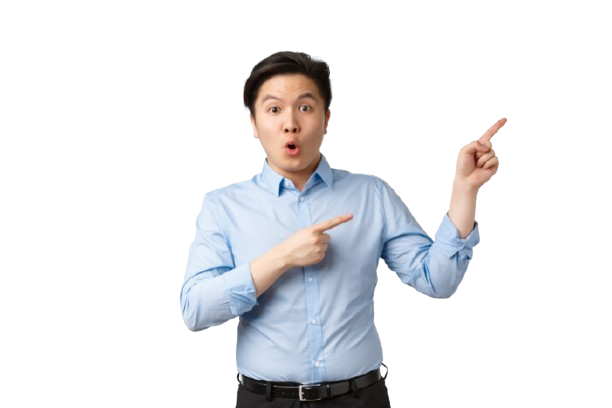
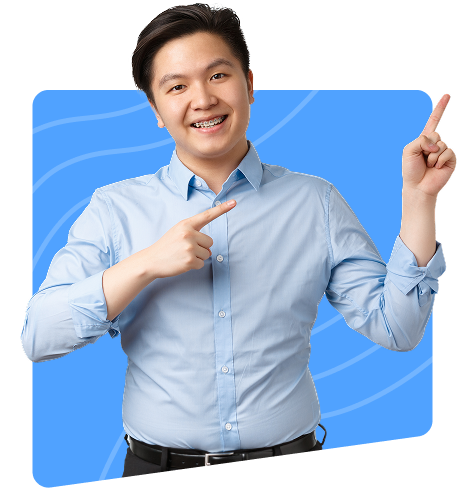
Change image & adjustment padding container at Landing Page

diff --git a/resources/js/Pages/LandingPage.tsx b/resources/js/Pages/LandingPage.tsx
@@ -41,9 +41,9 @@ export default function LandingPage({
             <NavbarComponent />
 
             <header className="relative min-h-[800px] overflow-hidden bg-gradient-to-tr from-white to-yellow-50 pt-20 md:pt-16">
-                <div className="container relative z-10 mx-auto flex flex-col items-center justify-between px-4 py-10 text-center md:px-20 lg:flex-row lg:text-left">
-                    <div className="flex flex-col gap-10 lg:w-1/2">
-                        <h1 className="font-spartan text-[40px] font-medium leading-tight md:text-[48px] lg:text-[64px]">
+                <div className="container relative z-10 mx-auto flex flex-col items-center justify-between px-4 py-10 text-center md:px-10 lg:px-14 lg:text-left xl:flex-row xl:px-0">
+                    <div className="order-2 flex w-3/4 flex-col gap-10 text-center xl:order-1 xl:w-1/2 xl:text-left">
+                        <h1 className="font-spartan text-[40px] font-medium leading-tight md:text-5xl xl:text-6xl">
                             Tingkatkan Skill Coding dari Nol hingga Mahir!
                         </h1>
 
@@ -54,7 +54,7 @@ export default function LandingPage({
                             secara efektif."
                         />
 
-                        <div className="flex justify-center lg:justify-start">
+                        <div className="flex justify-center xl:justify-start">
                             <Link href="/courses">
                                 <NewPrimaryButton
                                     text="Mulai Belajar Sekarang"
@@ -64,16 +64,16 @@ export default function LandingPage({
                             </Link>
                         </div>
                     </div>
-                    <div className="relative order-1 mt-10 hidden justify-center lg:order-2 lg:mt-0 lg:flex lg:w-1/2">
-                        <div className="absolute right-[12%] top-4 h-[380px] w-[340px] rotate-[25deg] rounded-3xl bg-primary blur-[1px] md:h-[460px] md:w-[420px] lg:right-[20%] lg:top-0 lg:h-[380px] lg:w-[290px] xl:right-[16%] xl:top-4 xl:h-[460px] xl:w-[420px]" />
-                        <div className="absolute right-[5%] top-0 h-[400px] w-[360px] rounded-3xl bg-[#51a2ff] md:h-[467px] md:w-[440px] lg:right-[14%] lg:top-0 lg:h-[400px] lg:w-[310px] xl:right-[10%] xl:top-0 xl:h-[467px] xl:w-[440px]" />
+                    <div className="relative order-1 mt-10 hidden w-[70%] justify-center lg:mt-0 lg:flex xl:order-2 xl:w-1/2">
+                        {/* <div className="absolute right-[12%] top-4 h-[380px] w-[340px] rotate-[25deg] rounded-3xl bg-primary blur-[1px] md:h-[460px] md:w-[420px] lg:right-[20%] lg:top-0 lg:h-[380px] lg:w-[290px] xl:right-[16%] xl:top-4 xl:h-[460px] xl:w-[420px]" />
+                        <div className="absolute right-[5%] top-0 h-[400px] w-[360px] rounded-3xl bg-[#51a2ff] md:h-[467px] md:w-[440px] lg:right-[14%] lg:top-0 lg:h-[400px] lg:w-[310px] xl:right-[10%] xl:top-0 xl:h-[467px] xl:w-[440px]" /> */}
                         <img
-                            src="/images/header1.png"
+                            src="/images/header.png"
                             alt="Belajar coding"
-                            className="relative z-10 w-[80%] max-w-[400px] object-cover md:w-[70%] md:object-contain lg:h-[400px] lg:w-[60%] lg:max-w-[300px] lg:object-cover xl:h-auto xl:w-[85%] xl:max-w-[400px] xl:object-contain"
+                            className="relative z-10 object-cover md:w-[70%] md:object-contain lg:object-cover xl:h-auto xl:w-[85%] xl:max-w-[600px] xl:object-contain"
                             loading="lazy"
                         />
-                        <div className="absolute left-[10%] top-10 z-20 flex translate-x-6 items-center gap-2 rounded-xl bg-white px-3 py-1.5 shadow-lg md:left-[12%] md:translate-x-8 lg:left-[8%] lg:top-8 lg:translate-x-6 lg:gap-1 lg:px-2 lg:py-1 xl:left-[14%] xl:top-10 xl:translate-x-10 xl:gap-2 xl:px-3 xl:py-1.5">
+                        <div className="absolute left-[10%] top-10 z-20 flex translate-x-6 items-center gap-2 rounded-xl bg-white px-3 py-1.5 shadow-lg md:left-[12%] md:translate-x-8 lg:left-[10%] lg:top-8 lg:translate-x-6 lg:gap-1 lg:px-2 lg:py-1 xl:left-[4%] xl:top-36 xl:translate-x-10 xl:gap-2 xl:px-3 xl:py-1.5 2xl:left-[14%]">
                             <div className="flex h-5 w-5 items-center justify-center rounded-md bg-yellow-400 text-white lg:h-4 lg:w-4 xl:h-5 xl:w-5">
                                 <IconSend3 className="h-3 w-3 lg:h-2 lg:w-2 xl:h-3 xl:w-3" />
                             </div>
@@ -81,7 +81,7 @@ export default function LandingPage({
                                 Effective Learning
                             </span>
                         </div>
-                        <div className="absolute bottom-20 left-[8%] z-20 flex translate-x-8 items-center gap-2 rounded-xl bg-white px-3 py-1.5 shadow-lg md:left-[10%] md:translate-x-10 lg:bottom-20 lg:left-[5%] lg:translate-x-6 lg:gap-1 lg:px-2 lg:py-1 xl:bottom-20 xl:left-[12%] xl:translate-x-12 xl:gap-2 xl:px-3 xl:py-1.5">
+                        <div className="absolute bottom-20 left-[8%] z-20 flex translate-x-8 items-center gap-2 rounded-xl bg-white px-3 py-1.5 shadow-lg md:left-[10%] md:translate-x-10 lg:bottom-20 lg:left-[5%] lg:translate-x-6 lg:gap-1 lg:px-2 lg:py-1 xl:bottom-28 xl:left-[12%] xl:translate-x-12 xl:gap-2 xl:px-3 xl:py-1.5">
                             <div className="flex h-5 w-5 items-center justify-center rounded-md bg-purple-600 text-white lg:h-4 lg:w-4 xl:h-5 xl:w-5">
                                 <IconSend3 className="h-3 w-3 lg:h-2 lg:w-2 xl:h-3 xl:w-3" />
                             </div>
@@ -89,7 +89,7 @@ export default function LandingPage({
                                 Upgrade Skill
                             </span>
                         </div>
-                        <div className="absolute bottom-8 right-6 z-20 flex items-center gap-2 rounded-xl bg-white px-3 py-1.5 shadow-lg md:right-8 lg:bottom-8 lg:right-6 lg:gap-1 lg:px-2 lg:py-1 xl:bottom-8 xl:right-10 xl:gap-2 xl:px-3 xl:py-1.5">
+                        <div className="absolute bottom-12 right-6 z-20 flex items-center gap-2 rounded-xl bg-white px-3 py-1.5 shadow-lg md:right-8 lg:bottom-8 lg:right-6 lg:gap-1 lg:px-2 lg:py-1 xl:bottom-24 xl:right-10 xl:gap-2 xl:px-3 xl:py-1.5">
                             <div className="flex h-5 w-5 items-center justify-center rounded-md bg-primary text-white lg:h-4 lg:w-4 xl:h-5 xl:w-5">
                                 <IconBookOpen className="h-3 w-3 lg:h-2 lg:w-2 xl:h-3 xl:w-3" />
                             </div>
@@ -103,45 +103,55 @@ export default function LandingPage({
 
             {/* Section belajar coding */}
             <section className="py-10">
-                <div className="container mx-auto flex flex-col items-center gap-12 px-4 py-4 md:flex-row md:items-center md:px-10 xl:px-20">
-                    <div className="flex w-full justify-center md:w-1/2">
-                        <div className="">
-                            <img
-                                src="/images/header.png"
-                                alt="student"
-                                className="w-full max-w-sm object-contain md:max-w-md"
-                            />
-                        </div>
-                    </div>
-
-                    {/* Kontainer teks */}
-                    <div className="flex w-full flex-col items-center gap-5 text-center md:w-1/2 md:items-start md:text-left">
+                <div className="container mx-auto px-4 py-4 md:px-10 xl:px-20">
+                    <div className="hidden w-[90%] sm:block lg:hidden">
                         <SubText text="Why Choose Us" />
-
                         <TitleText text="Belajar Coding dengan Pendekatan yang Tepat" />
-
-                        <ul className="space-y-3 text-grey">
-                            {[
-                                'Materi Terarah & Terstruktur',
-                                'Fokus pada Konsep Dasar',
-                                'Fleksibel & Ramah Pemula',
-                                'Komunitas yang Mendukung',
-                            ].map((item, i) => (
-                                <li key={i} className="flex items-center gap-3">
-                                    <IconCircleCheckFill className="size-5 text-green-500" />
-                                    <BodySecondaryText text={item} />
-                                </li>
-                            ))}
-                        </ul>
-
-                        <div className="mt-3">
-                            <Link href="/courses">
-                                <NewPrimaryButton
-                                    text="Mulai Belajar Sekarang"
-                                    circleIcon
-                                    showIcon
+                    </div>
+                    <div className="flex flex-col items-center gap-12 md:flex-row md:items-center">
+                        <div className="flex w-full justify-center md:w-1/2">
+                            <div className="">
+                                <img
+                                    src="/images/why-choose-us.png"
+                                    alt="student"
+                                    className="w-full max-w-sm object-contain md:max-w-md"
                                 />
-                            </Link>
+                            </div>
+                        </div>
+
+                        {/* Kontainer teks */}
+                        <div className="flex w-full flex-col items-center gap-5 text-center md:w-1/2 md:items-start md:text-left">
+                            <div className="block sm:hidden lg:block">
+                                <SubText text="Why Choose Us" />
+                                <TitleText text="Belajar Coding dengan Pendekatan yang Tepat" />
+                            </div>
+
+                            <ul className="space-y-3 text-grey">
+                                {[
+                                    'Materi Terarah & Terstruktur',
+                                    'Fokus pada Konsep Dasar',
+                                    'Fleksibel & Ramah Pemula',
+                                    'Komunitas yang Mendukung',
+                                ].map((item, i) => (
+                                    <li
+                                        key={i}
+                                        className="flex items-center gap-3"
+                                    >
+                                        <IconCircleCheckFill className="size-5 text-green-500" />
+                                        <BodySecondaryText text={item} />
+                                    </li>
+                                ))}
+                            </ul>
+
+                            <div className="mt-3">
+                                <Link href="/courses">
+                                    <NewPrimaryButton
+                                        text="Mulai Belajar Sekarang"
+                                        circleIcon
+                                        showIcon
+                                    />
+                                </Link>
+                            </div>
                         </div>
                     </div>
                 </div>
@@ -149,7 +159,7 @@ export default function LandingPage({
 
             {/* Section semuua module */}
             <section className="py-10">
-                <div className="container mx-auto flex flex-col gap-5 px-6 py-8 md:px-10 lg:px-20">
+                <div className="container mx-auto flex flex-col gap-5 px-6 py-8 md:px-10 lg:px-14 xl:px-0">
                     <SubText text="Choose Your Path" />
 
                     <TitleText text="Pilih Jalur Pembelajaran Sesuai Minatmu" />
@@ -168,7 +178,7 @@ export default function LandingPage({
 
             {/* Section popular modules */}
             <section className="py-10">
-                <div className="container mx-auto px-6 py-8 md:px-10 lg:px-20">
+                <div className="container mx-auto px-6 py-8 md:px-10 lg:px-14 xl:px-0">
                     <div className="flex flex-col gap-10 md:flex-row md:items-center md:justify-start lg:justify-between">
                         <div className="flex flex-col gap-5">
                             <SubText text="POPULAR MODULES" />
@@ -202,7 +212,7 @@ export default function LandingPage({
             </section>
 
             {/* <section className="py-10">
-                <div className="container mx-auto px-6 py-8 md:px-10 lg:px-20">
+                <div className="container mx-auto px-6 py-8 md:px-10   lg:px-14 xl:px-0">
                     <div className="flex flex-col gap-5 rounded-2xl bg-primary p-10 text-white md:p-20">
                         <TitleText text='Gabung "Bootcamp Bersama PBK", Perkuat Fundamental Skill Web Programming' />
                         <Link
@@ -218,7 +228,7 @@ export default function LandingPage({
 
             {/* Section Blog */}
             <section className="py-10">
-                <div className="container mx-auto px-6 py-8 md:px-10 lg:px-20">
+                <div className="container mx-auto px-6 py-8 md:px-10 lg:px-14 xl:px-0">
                     <div className="flex flex-col gap-10 md:flex-row md:items-center lg:justify-between">
                         <div className="flex flex-col gap-5">
                             <SubText text="From Our Blog" />
@@ -260,7 +270,7 @@ export default function LandingPage({
 
             {/* Sextion What They Say */}
             <section className="my-10 bg-[#F9FAFB] py-10">
-                <div className="container mx-auto px-6 py-8 md:px-10 lg:px-20">
+                <div className="container mx-auto px-6 py-8 md:px-10 lg:px-14 xl:px-0">
                     <div className="flex flex-col gap-2 lg:flex-row lg:items-center lg:justify-between">
                         <div className="flex flex-col gap-5">
                             <SubText text="What They Say" />
@@ -317,7 +327,7 @@ export default function LandingPage({
 
             {/* Section FAQ */}
             <section className="py-10">
-                <div className="container mx-auto grid grid-cols-1 gap-10 px-6 py-8 md:px-10 lg:grid-cols-2 lg:px-20">
+                <div className="container mx-auto grid grid-cols-1 gap-10 px-6 py-8 md:px-10 lg:grid-cols-2 lg:px-14 xl:px-0">
                     <div className="flex flex-col gap-5">
                         <SubText text="Frequently Asked Questions" />
 

diff --git a/resources/js/Components/Navbar.tsx b/resources/js/Components/Navbar.tsx
@@ -53,18 +53,18 @@ export default function NavbarComponent() {
     return (
         <>
             <nav className="fixed left-0 right-0 top-0 z-50 bg-white">
-                <div className="container mx-auto flex items-center justify-between px-4 py-3 md:px-10 md:py-5">
+                <div className="container mx-auto flex items-center justify-between px-4 py-3 md:px-10 md:py-5 lg:px-14 xl:px-0">
                     <Link href="/" className="flex items-center gap-3">
                         <img
                             src="/images/logo/alope-blue.png"
                             alt="Alope Course Logo"
-                            className="h-10 w-10 object-contain"
+                            className="size-8 object-contain sm:size-10"
                         />
                         <div className="leading-tight">
-                            <h1 className="text-lg font-semibold text-primary">
+                            <h1 className="font-semibold text-primary sm:text-lg">
                                 Alope Course
                             </h1>
-                            <p className="-mt-1 text-sm text-gray-500">
+                            <p className="-mt-1 text-xs text-gray-500 sm:text-sm">
                                 Upgrade Your Skills
                             </p>
                         </div>
@@ -74,10 +74,11 @@ export default function NavbarComponent() {
                             <li key={link.href}>
                                 <Link
                                     href={link.href}
-                                    className={`transition hover:text-primary ${isActive(link.href)
+                                    className={`transition hover:text-primary ${
+                                        isActive(link.href)
                                             ? 'font-semibold text-primary'
                                             : 'text-gray-600'
-                                        }`}
+                                    }`}
                                 >
                                     {link.name}
                                 </Link>
@@ -91,10 +92,11 @@ export default function NavbarComponent() {
                                     onClick={() =>
                                         setIsDropdownOpen(!isDropdownOpen)
                                     }
-                                    className={`flex items-center gap-2 rounded-lg px-3 py-1.5 text-gray-700 transition ${isDropdownOpen
+                                    className={`flex items-center gap-2 rounded-lg px-3 py-1.5 text-gray-700 transition ${
+                                        isDropdownOpen
                                             ? 'bg-primary text-white'
                                             : 'hover:bg-primary hover:text-white'
-                                        }`}
+                                    }`}
                                 >
                                     <IconCirclePersonFill className="size-5" />
                                     <span>{auth.user.name}</span>
@@ -138,7 +140,7 @@ export default function NavbarComponent() {
                         onClick={() => setIsOpen(!isOpen)}
                         className="text-gray-700 md:hidden"
                     >
-                        <IconHamburger />
+                        <IconHamburger className="size-6" />
                     </button>
                 </div>
                 <div className="overflow-hidden bg-amber-500 py-4 text-white">
@@ -152,13 +154,12 @@ export default function NavbarComponent() {
             </nav>
             <div className="h-[76px] bg-gradient-to-tr from-white to-yellow-50 md:h-[80px]" />
 
-
             {/* Drawer mobile */}
             <aside
-                className={`fixed left-0 top-28 z-40 h-full w-72 transform bg-white shadow-lg transition-transform md:hidden ${isOpen ? 'translate-x-0' : '-translate-x-full'
-                    }`}
+                className={`fixed left-0 top-28 z-40 h-full w-72 transform bg-white shadow-lg transition-transform md:hidden ${
+                    isOpen ? 'translate-x-0' : '-translate-x-full'
+                }`}
             >
-
                 {/* User header */}
                 <div className="flex items-center gap-3 border-b px-6 py-6">
                     <IconCirclePersonFill className="size-10 text-primary" />
@@ -176,10 +177,11 @@ export default function NavbarComponent() {
                         <li key={link.href}>
                             <Link
                                 href={link.href}
-                                className={`block rounded-lg px-4 py-2 transition ${isActive(link.href)
-                                        ? 'bg-primary/10 text-primary font-semibold'
+                                className={`block rounded-lg px-4 py-2 transition ${
+                                    isActive(link.href)
+                                        ? 'bg-primary/10 font-semibold text-primary'
                                         : 'text-gray-600 hover:bg-gray-100'
-                                    }`}
+                                }`}
                                 onClick={() => setIsOpen(false)}
                             >
                                 {link.name}
@@ -226,7 +228,6 @@ export default function NavbarComponent() {
                     )}
                 </div>
             </aside>
-
 
             {isOpen && (
                 <div

diff --git a/resources/js/Components/Footer.tsx b/resources/js/Components/Footer.tsx
@@ -5,7 +5,7 @@ export default function FooterComponent() {
     return (
         <footer className="overflow-x-hidden bg-primary pb-10 pt-16 text-white">
             <div className="container mx-auto">
-                <div className="grid grid-cols-1 gap-10 px-4 text-center md:grid-cols-12 md:px-10 md:text-left">
+                <div className="grid grid-cols-1 gap-10 px-4 text-center md:grid-cols-12 md:px-10 md:text-left lg:px-14 xl:px-0">
                     <div className="flex flex-col items-center md:col-span-5 md:items-start">
                         <div className="flex items-center justify-center gap-2 md:justify-start">
                             <img
@@ -100,11 +100,11 @@ export default function FooterComponent() {
                     </div>
                 </div>
 
-                <div className="px-4 md:px-10">
+                <div className="px-4 md:px-10 lg:px-14 xl:px-0">
                     <hr className="my-10 border border-white/30" />
                 </div>
 
-                <div className="px-4 text-center md:px-10 md:text-left">
+                <div className="px-4 text-center md:px-10 md:text-left lg:px-14 xl:px-0">
                     <p className="text-sm text-white/90">
                         Copyright 2025 by Alope. All Right Reserved
                     </p>
